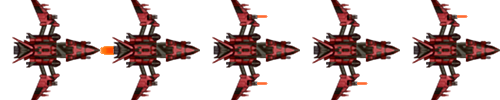
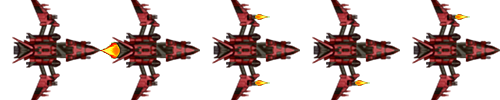
better looking flames

diff --git a/README.md b/README.md
@@ -8,4 +8,10 @@ Navigate a spaceship through space. The stars show a parallax effect. Avoid the 
 
 This is a demonstration how to use multiple HTML canvases and animated sprites with JavaScript (see also [this repository](https://github.com/ScriptRaccoon/Sprite-Animation)).
 
-The image of the idle spaceship comes from https://opengameart.org/content/spaceship-fighter-ipod1. The images of the rotating asteroids come from https://opengameart.org/content/asteroid-l and https://opengameart.org/content/asteroid-m and https://opengameart.org/content/asteroid-s-0.
+The images are generated from these works:
+
+-   https://opengameart.org/content/spaceship-fighter-ipod1
+-   https://opengameart.org/content/homemade-flame
+-   https://opengameart.org/content/asteroid-l
+-   https://opengameart.org/content/asteroid-m
+-   https://opengameart.org/content/asteroid-s-0
